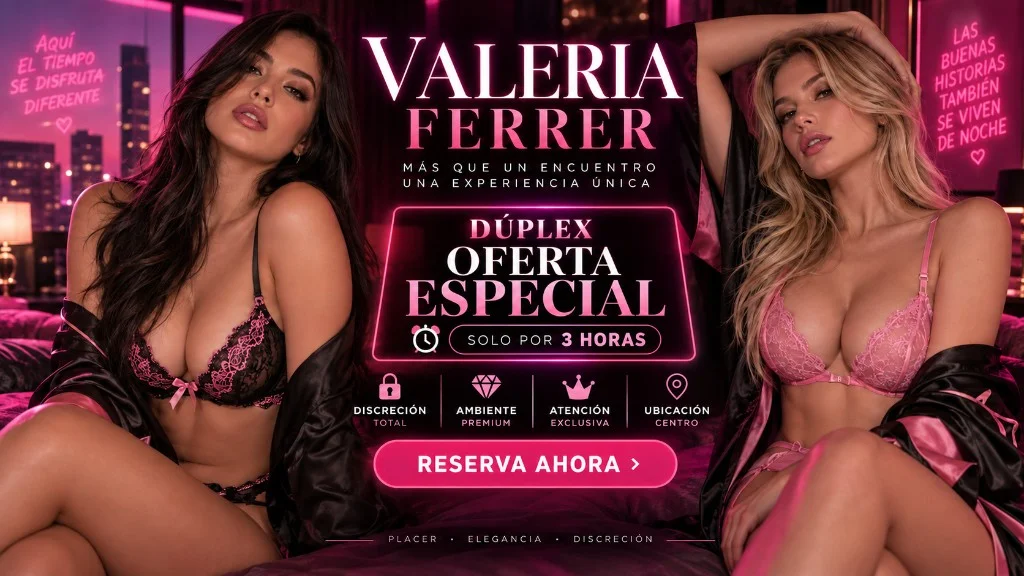
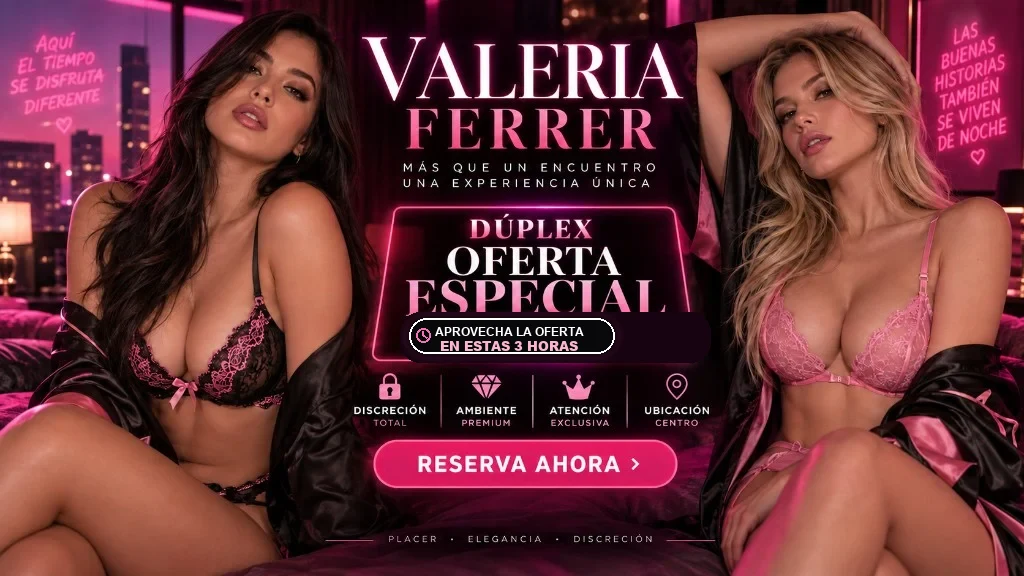
Relaunch the duplex promo for three hours with clearer urgency copy.
Replace “solo por 3 horas” with “aprovecha la oferta en estas 3 horas” so visitors understand the deadline, not a service duration.

Changed region(s): [[0.375, 0.5312, 0.6875, 0.6562]]

diff --git a/lib/promoPopupConfig.ts b/lib/promoPopupConfig.ts
@@ -9,13 +9,13 @@ export type PromoPopupConfig = {
 }
 
 export const ACTIVE_PROMO: PromoPopupConfig = {
-  id: 'promo-2026-09-11-copa',
-  image: '/promos/promo-copa.webp',
-  startsAt: '2026-09-11T21:38:00+02:00',
-  endsAt: '2026-09-12T00:38:00+02:00',
+  id: 'promo-2026-09-13-duo',
+  image: '/promos/promo-duo.webp?v=aprovecha-3h',
+  startsAt: '2026-09-13T20:55:00+02:00',
+  endsAt: '2026-09-13T23:55:00+02:00',
   enabled: true,
   ctaHref: '/booking',
-  bannerText: '🥂 Copa de invitación · Oferta activa · Ver oferta',
+  bannerText: 'Oferta dúplex · Aprovecha en estas 3 horas · Ver oferta',
 }
 
 export function isPromoLive(promo: PromoPopupConfig, now = Date.now()): boolean {
